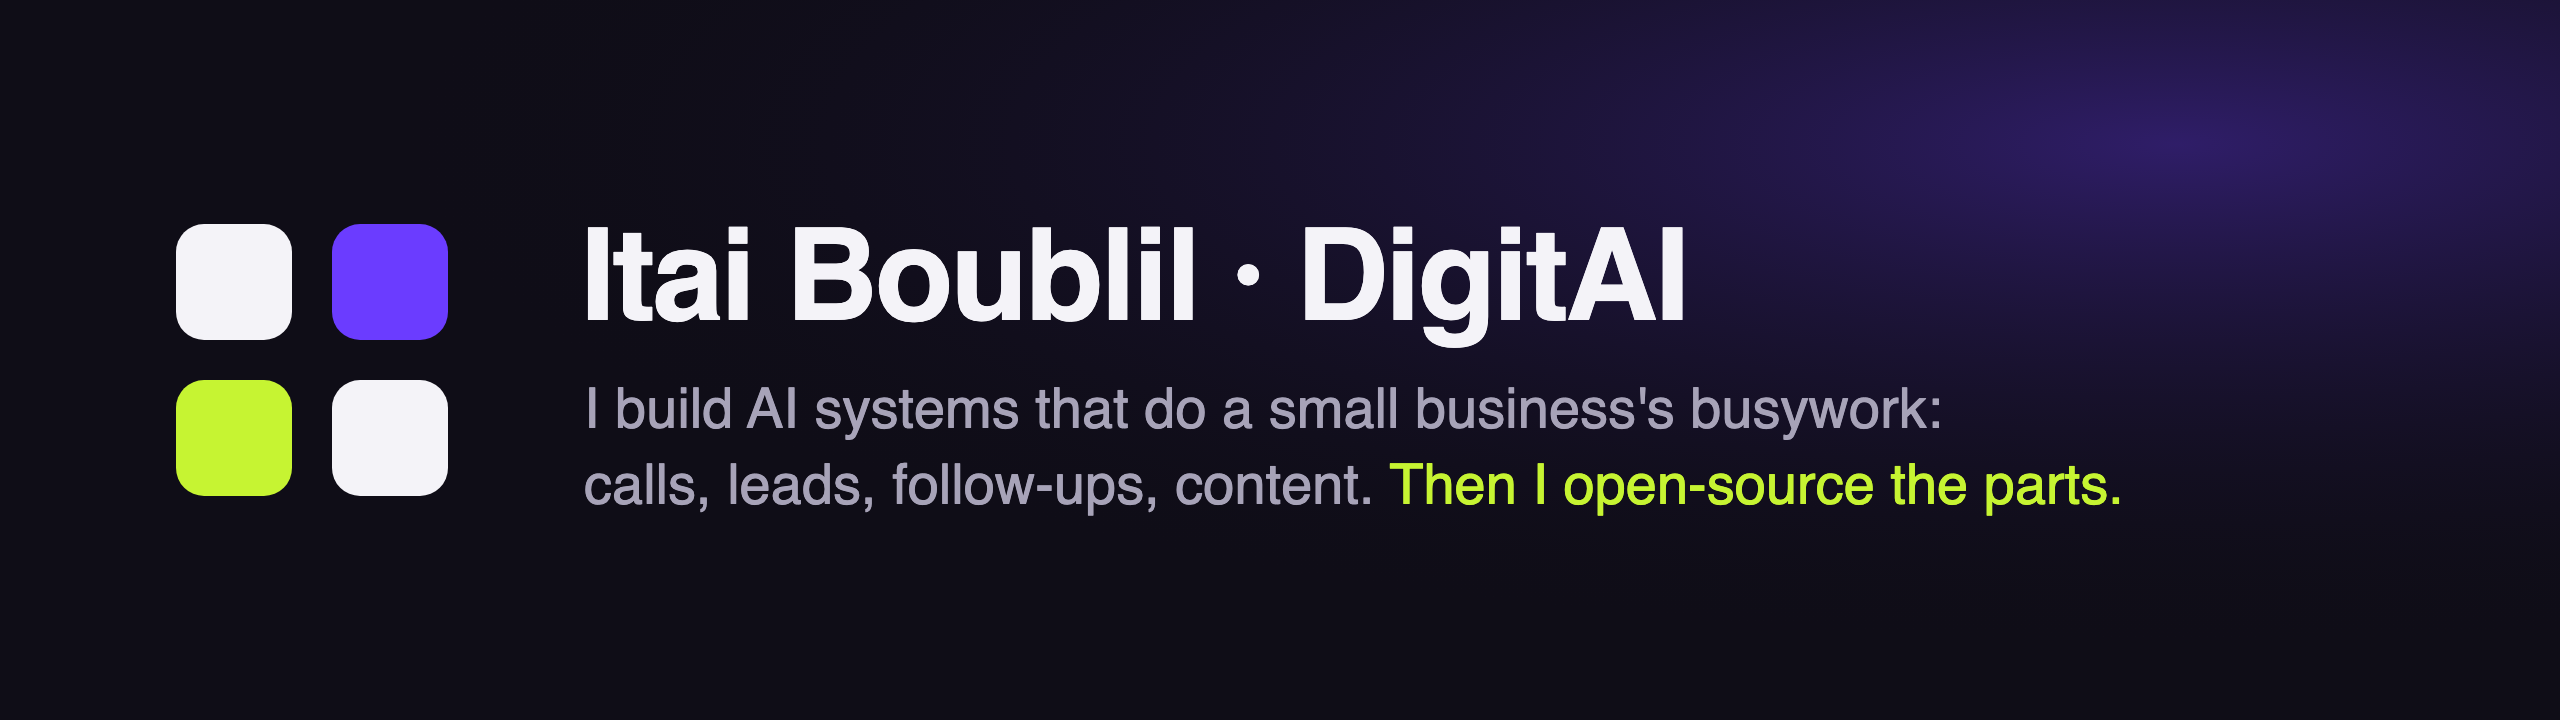
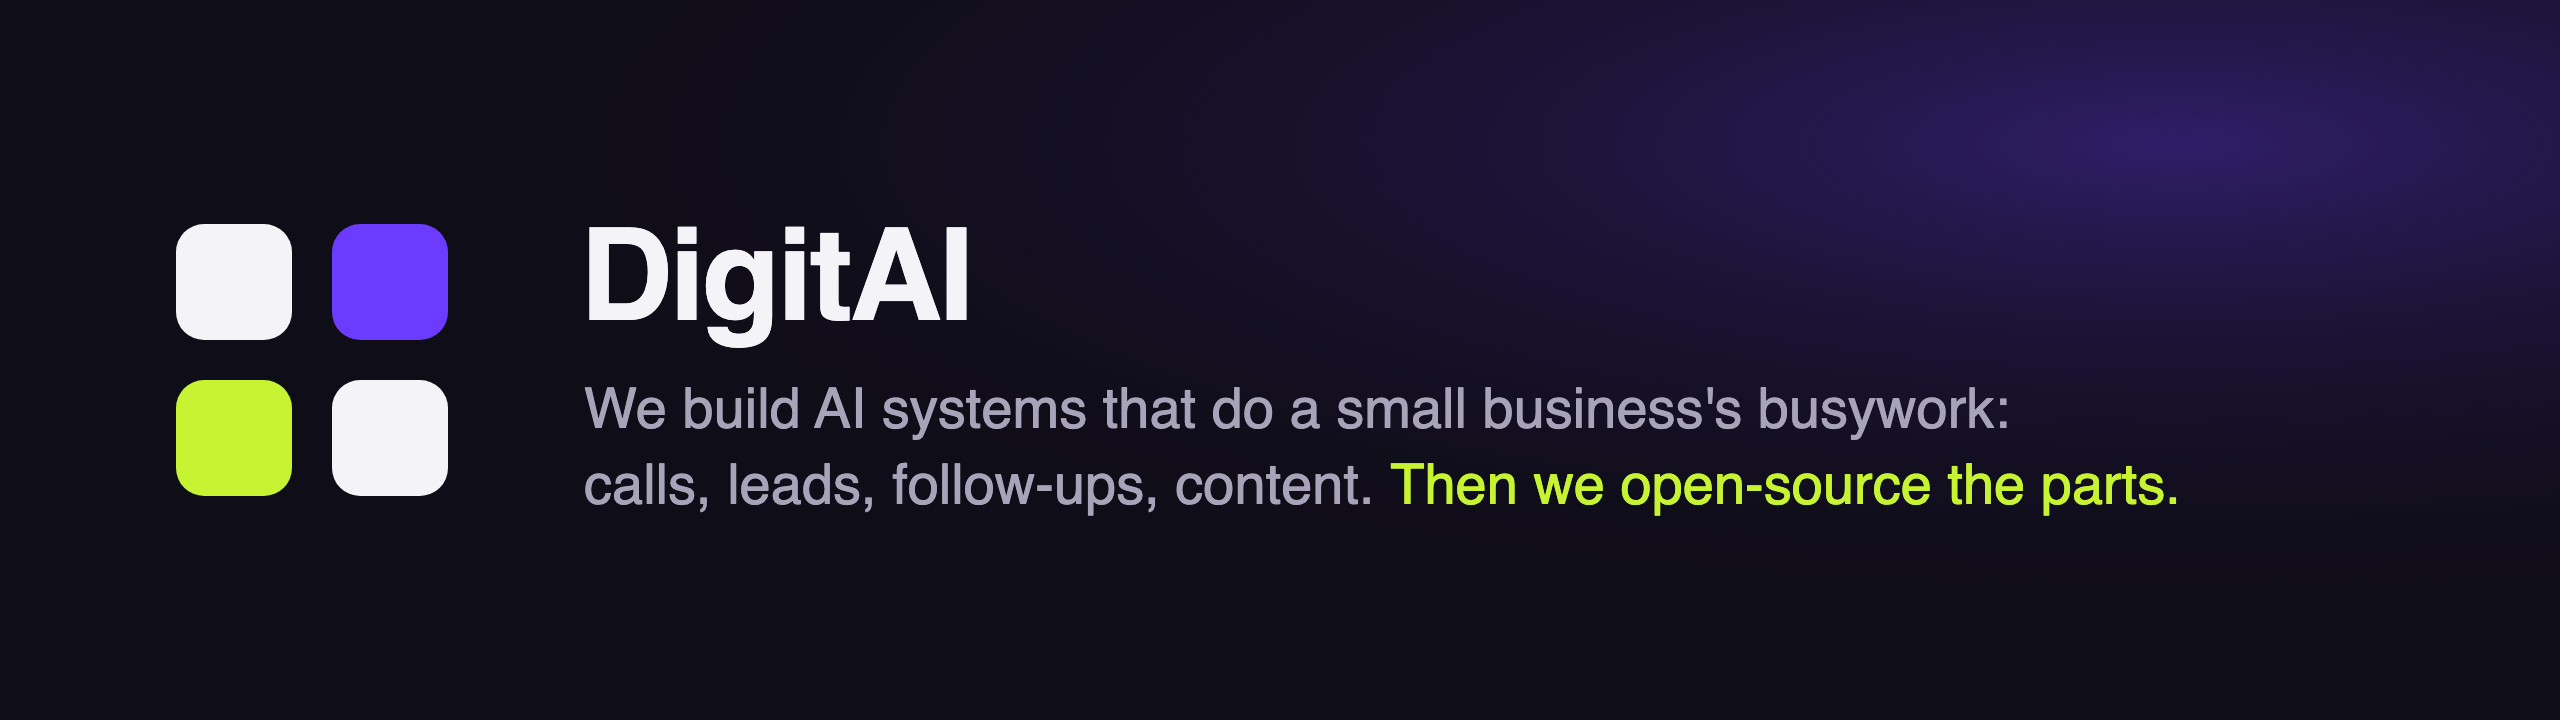
Profile: DigitAI first, no personal name
Claude-Session: https://claude.ai/code/session_01LXguJ1xKX26wxrmRUQ5FHE

Changed region(s): [[0.2188, 0.3056, 0.6562, 0.4889], [0.2188, 0.5194, 0.7812, 0.6111], [0.5625, 0.6417, 0.8438, 0.7028]]

diff --git a/README.md b/README.md
@@ -1,13 +1,13 @@
-<img src="header.png" alt="Itai Boublil, DigitAI: AI systems that do the busywork" width="100%">
+<img src="header.png" alt="DigitAI: AI systems that do the busywork" width="100%">
 
-### Hi, I'm Itai 👋
+### Hi, we're DigitAI 👋
 
-I run [**DigitAI**](https://digitai.co.il), a one-person studio in Israel. I find where a small business loses time
-and money every month (missed calls, leads that wait, follow-ups done by hand, WhatsApp chaos) and build the AI
-system that does that work. One build, owned by the business, no monthly retainer.
+[**DigitAI**](https://digitai.co.il) is an AI studio in Israel. We find where a small business loses time and money
+every month (missed calls, leads that wait, follow-ups done by hand, WhatsApp chaos) and build the AI system that does
+that work. One build, owned by the business, no monthly retainer.
 
-I run my own business on the same kind of agents: they write outreach, post content, research leads and answer the
-phone. When a part is useful on its own, I clean it up and open-source it here.
+We run our own business on the same kind of agents: they write outreach, post content, research leads and answer the
+phone. When a part is useful on its own, we clean it up and open-source it here.
 
 ### Open source
 
@@ -15,11 +15,11 @@ phone. When a part is useful on its own, I clean it up and open-source it here.
 |---|---|
 | 📞 **CallBridge** · *launching soon* | An AI receptionist and sales caller on your **own** iPhone number. An ElevenLabs voice agent answers and makes real calls through your Mac and logs every call to Telegram, Slack, HubSpot or any CRM. Ships as a Claude Code plugin. |
 
-### What I work with
+### What we work with
 
 `Python` · `TypeScript` · `Claude Code` & the Claude API · `ElevenLabs` · `Playwright` · `Appium` · `n8n` · `Meta & Google APIs` · `macOS automation`
 
-### Find me
+### Find us
 
 [Website](https://digitai.co.il) · [Instagram](https://www.instagram.com/digitai.co.il/) · [TikTok](https://www.tiktok.com/@digitai.coil) · [LinkedIn](https://www.linkedin.com/company/145410190/)
 
